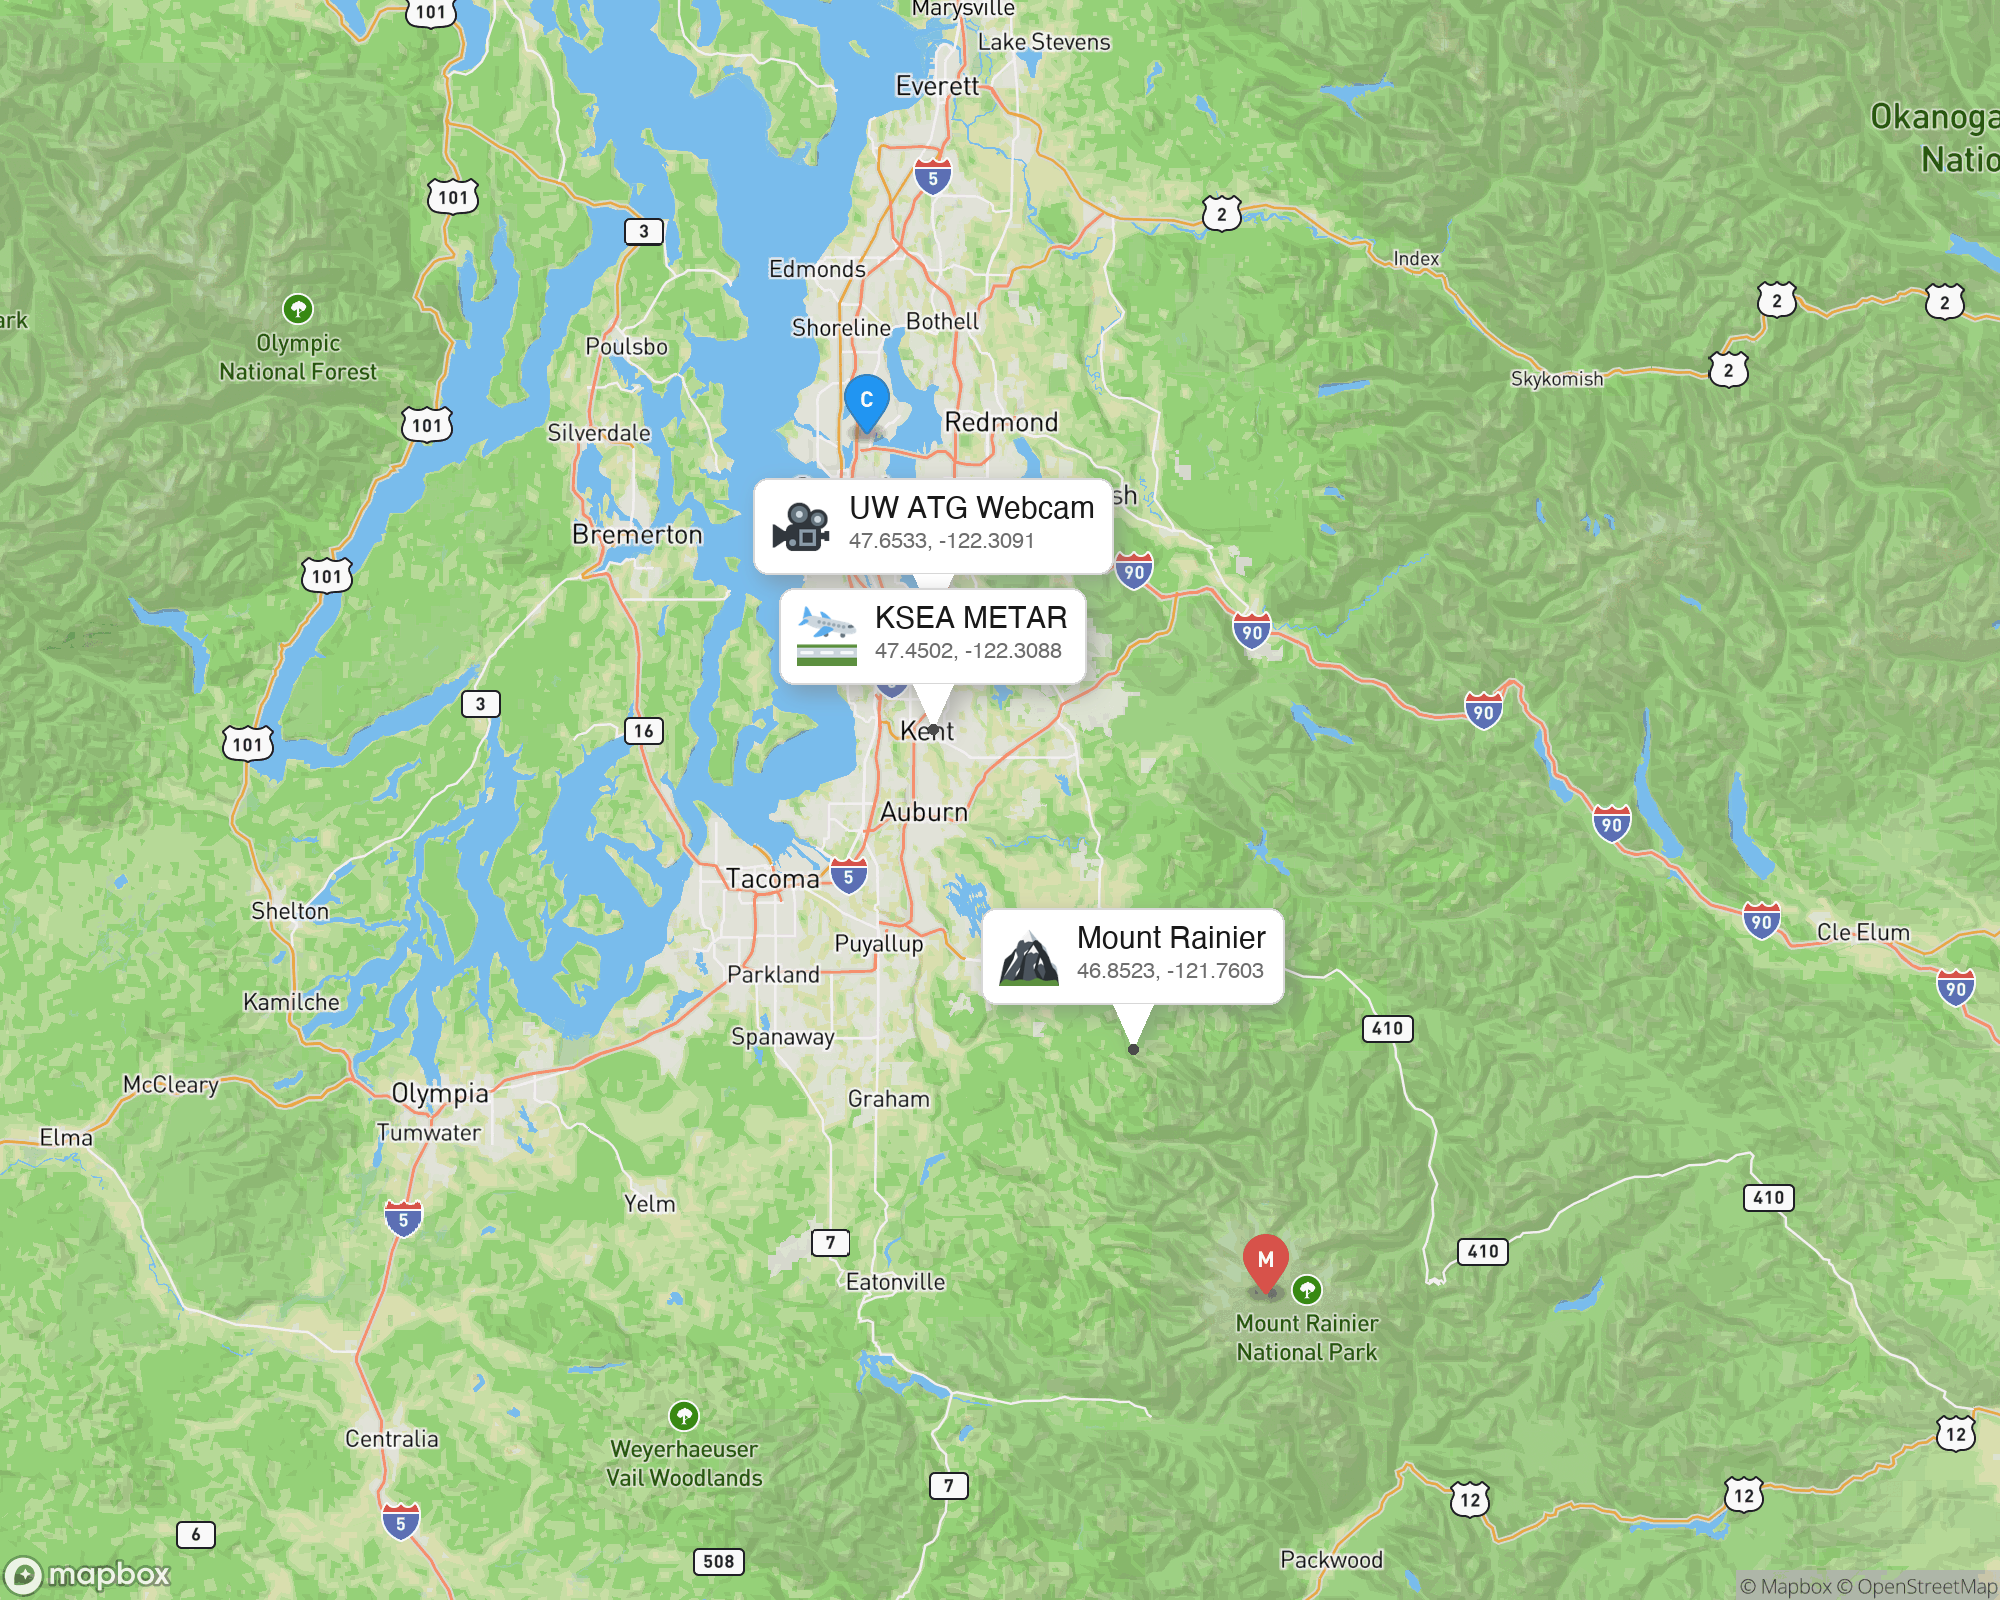
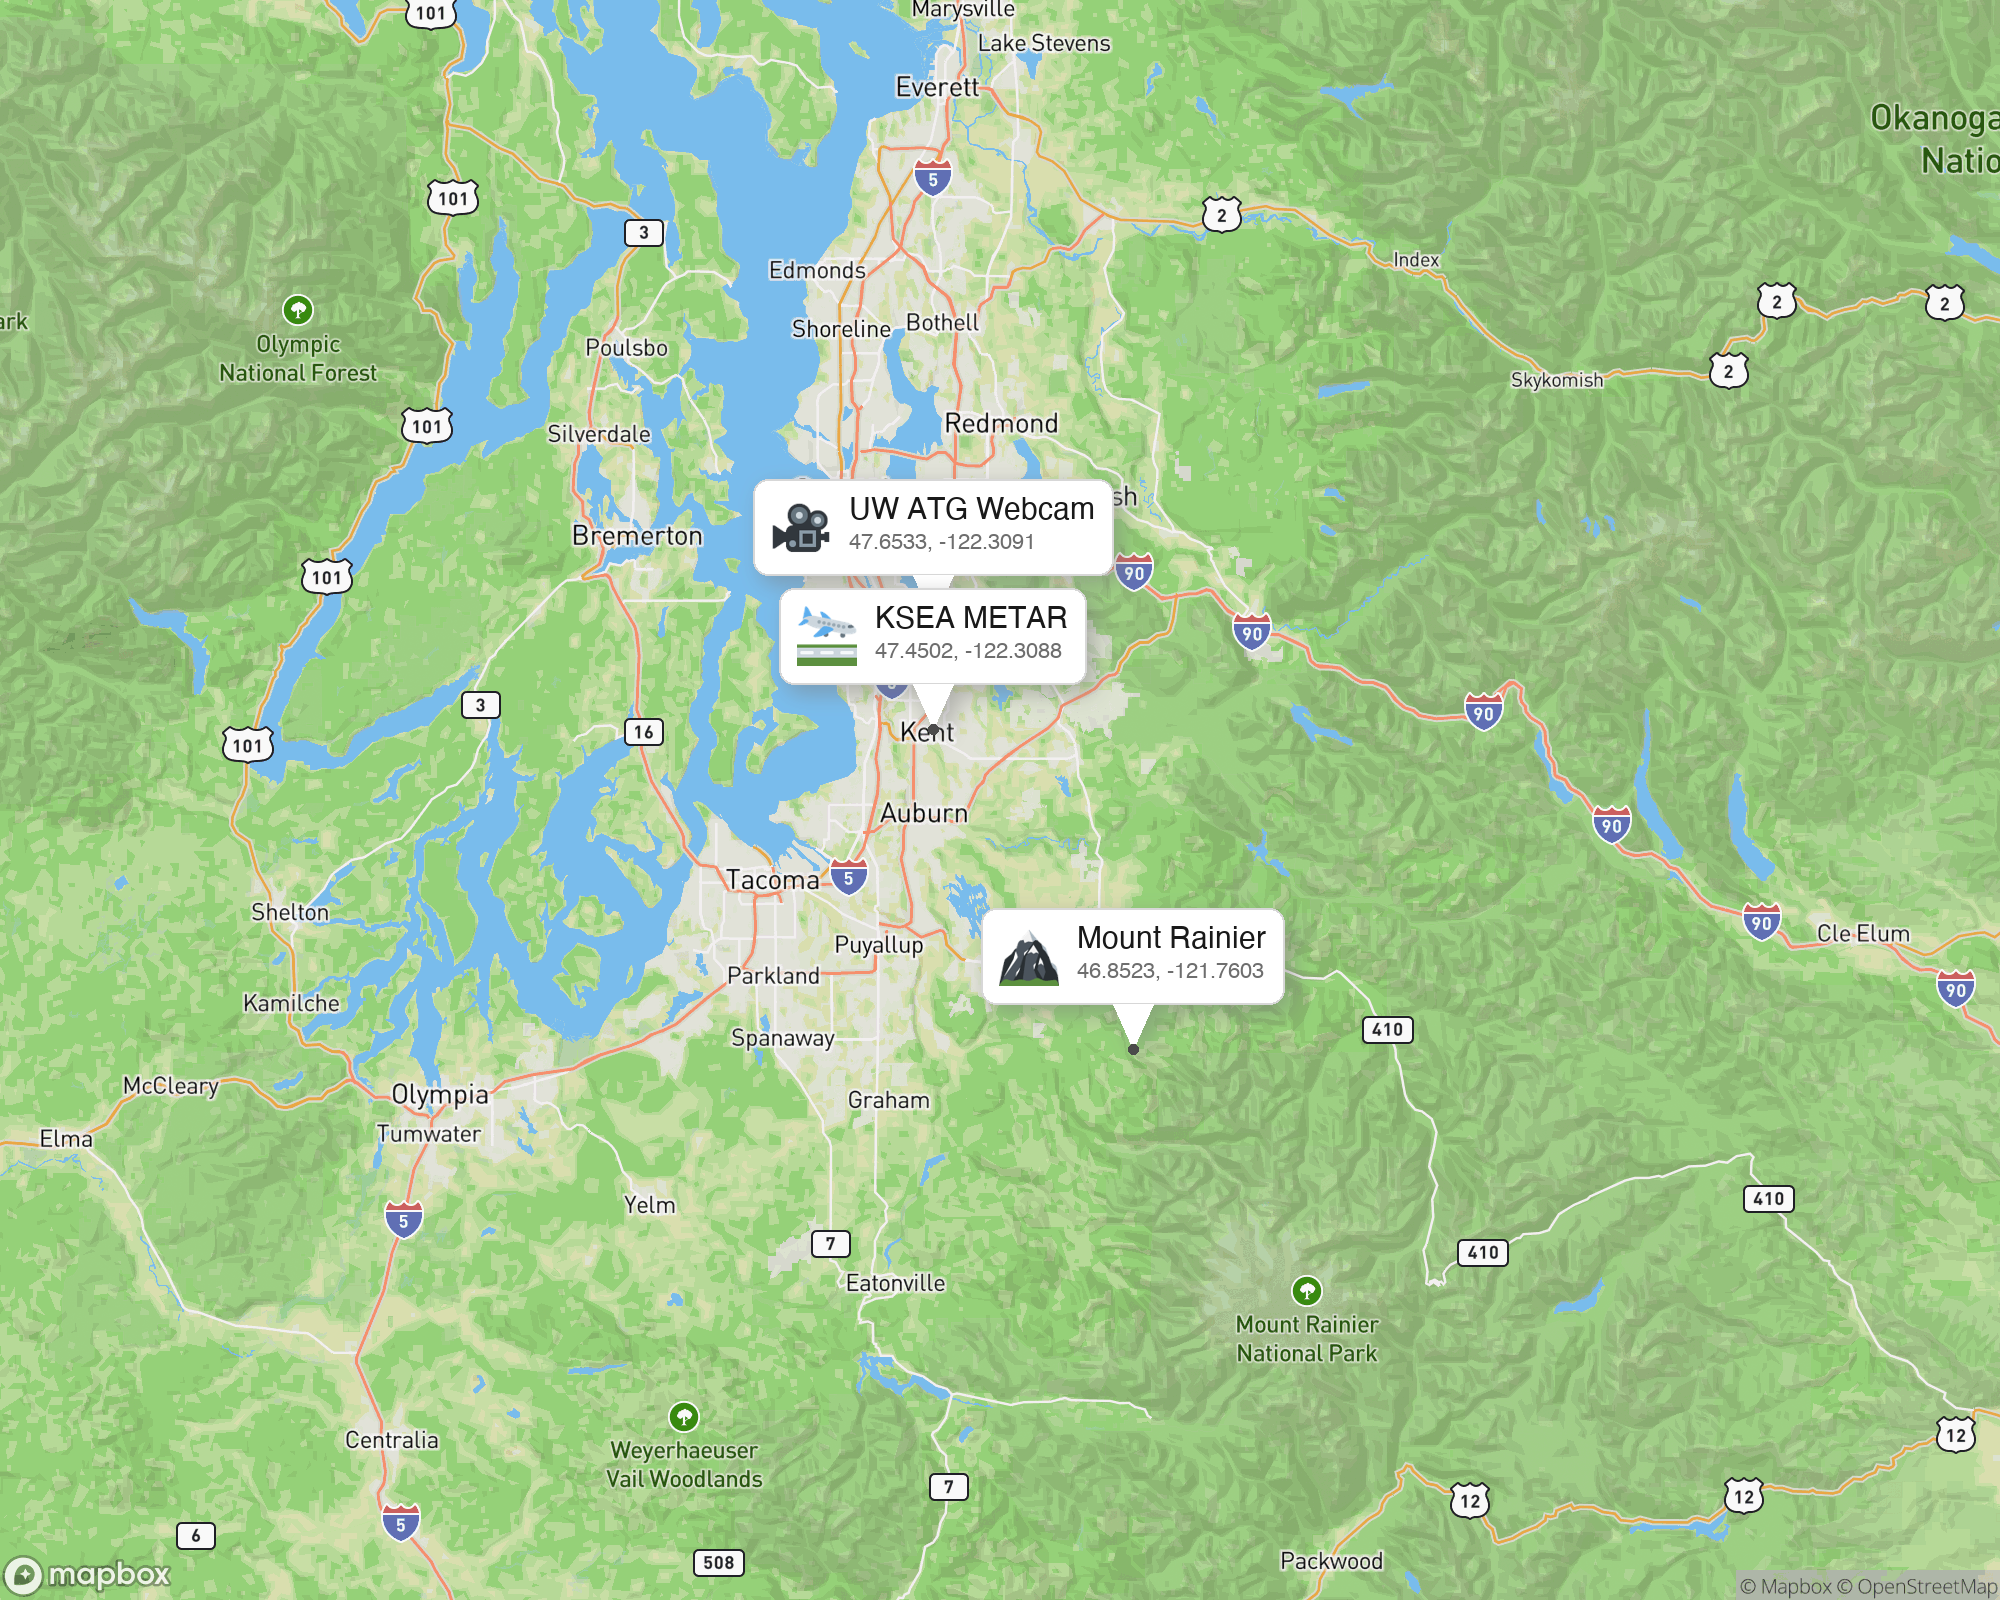
Fix geographic alignment using Mercator-space centering and Zoom 8

diff --git a/tools/generate_map.py b/tools/generate_map.py
@@ -5,22 +5,14 @@ import io
 from pathlib import Path
 from PIL import Image, ImageDraw, ImageFont, ImageFilter
 
-# Precise Web Mercator for Mapbox @2x (512px tiles)
-def lat_lon_to_pixel(lat, lon, center_lat, center_lon, zoom, img_w, img_h):
-    world_size = 512 * (2 ** zoom)
-    
-    def x_from_lon(l):
-        return (l + 180) * (world_size / 360)
-    
-    def y_from_lat(l):
-        r = math.radians(l)
-        # Note: top is 0, bottom is world_size
-        return (1 - (math.log(math.tan(r) + 1/math.cos(r)) / math.pi)) / 2 * world_size
-
-    cx, cy = x_from_lon(center_lon), y_from_lat(center_lat)
-    tx, ty = x_from_lon(lon), y_from_lat(lat)
-    
-    return (tx - cx) + (img_w / 2), (ty - cy) + (img_h / 2)
+# Precise Web Mercator Projection
+# World size at Zoom 0 is 256. At @2x Zoom Z, it is 512 * 2^Z.
+def project(lat, lon, zoom):
+    scale = 512 * (2 ** zoom)
+    x = (lon + 180) * (scale / 360)
+    lat_rad = math.radians(lat)
+    y = (scale / (2 * math.pi)) * (math.pi - math.log(math.tan(math.pi / 4 + lat_rad / 2)))
+    return x, y
 
 def draw_callout(img, px, py, emoji_hex, title, subtitle, font_bold, font_small):
     draw = ImageDraw.Draw(img)
@@ -40,7 +32,7 @@ def draw_callout(img, px, py, emoji_hex, title, subtitle, font_bold, font_small)
     
     bx, by = int(px - box_w / 2), int(py - box_h - 45)
     
-    # 3. Combined Shadow Layer
+    # 3. Unified Shadow Layer
     shadow_img = Image.new("RGBA", img.size, (0, 0, 0, 0))
     s_draw = ImageDraw.Draw(shadow_img)
     off = 8
@@ -74,20 +66,23 @@ def generate_map():
         {"name": "KSEA METAR", "lat": weather['latitude'], "lon": weather['longitude'], "hex": "1f6ec"}
     ]
 
-    # Calculate geographic center of ALL points
-    all_lats = [t['lat'] for t in targets]
-    all_lons = [t['lon'] for t in targets]
-    avg_lat, avg_lon = sum(all_lats)/3, sum(all_lons)/3
+    zoom = 8
+    
+    # Calculate visual center in Mercator space
+    world_coords = [project(t['lat'], t['lon'], zoom) for t in targets]
+    avg_world_x = sum(c[0] for c in world_coords) / len(world_coords)
+    avg_world_y = sum(c[1] for c in world_coords) / len(world_coords)
+    
+    # Convert Mercator center back to Lat/Lon for the Mapbox URL
+    world_size = 512 * (2 ** zoom)
+    center_lon = (avg_world_x / world_size * 360) - 180
+    center_lat = math.degrees(2 * math.atan(math.exp(math.pi * (1 - 2 * avg_world_y / world_size))) - math.pi / 2)
 
-    width, height, zoom = 1000, 800, 8
-    print(f"Requesting Mapbox base (Zoom {zoom}). center={avg_lat},{avg_lon}")
+    width, height = 1000, 800
+    print(f"Requesting map background (Zoom {zoom})...")
     
-    # URL including markers so we can verify positions visually (they'll be under the callouts)
-    markers_url = f"pin-s-m+f44336({mtn['longitude']},{mtn['latitude']}),pin-s-c+2196f3({cam['longitude']},{cam['latitude']}),pin-s-w+4caf50({weather['longitude']},{weather['latitude']})"
-    url = f"https://api.mapbox.com/styles/v1/mapbox/outdoors-v12/static/{markers_url}/{avg_lon},{avg_lat},{zoom}/{width}x{height}@2x?access_token={token}"
-    
+    url = f"https://api.mapbox.com/styles/v1/mapbox/outdoors-v12/static/{center_lon},{center_lat},{zoom}/{width}x{height}@2x?access_token={token}"
     res = requests.get(url, headers={"Referer": "https://tommyroar.github.io"})
-    if res.status_code != 200: return print(f"Error: {res.status_code}")
     
     img = Image.open(io.BytesIO(res.content)).convert("RGBA")
     
@@ -96,8 +91,12 @@ def generate_map():
         font_s = ImageFont.truetype("/System/Library/Fonts/Helvetica.ttc", 22)
     except: font_b = font_s = ImageFont.load_default()
 
+    # Place callouts using same projection
     for t in targets:
-        px, py = lat_lon_to_pixel(t['lat'], t['lon'], avg_lat, avg_lon, zoom, width*2, height*2)
+        tx, ty = project(t['lat'], t['lon'], zoom)
+        # Pixel coordinates relative to the calculated world center
+        px = (tx - avg_world_x) + (width) # width*2/2
+        py = (ty - avg_world_y) + (height) # height*2/2
         draw_callout(img, px, py, t['hex'], t['name'], f"{t['lat']:.4f}, {t['lon']:.4f}", font_b, font_s)
 
     Path("assets").mkdir(exist_ok=True)
